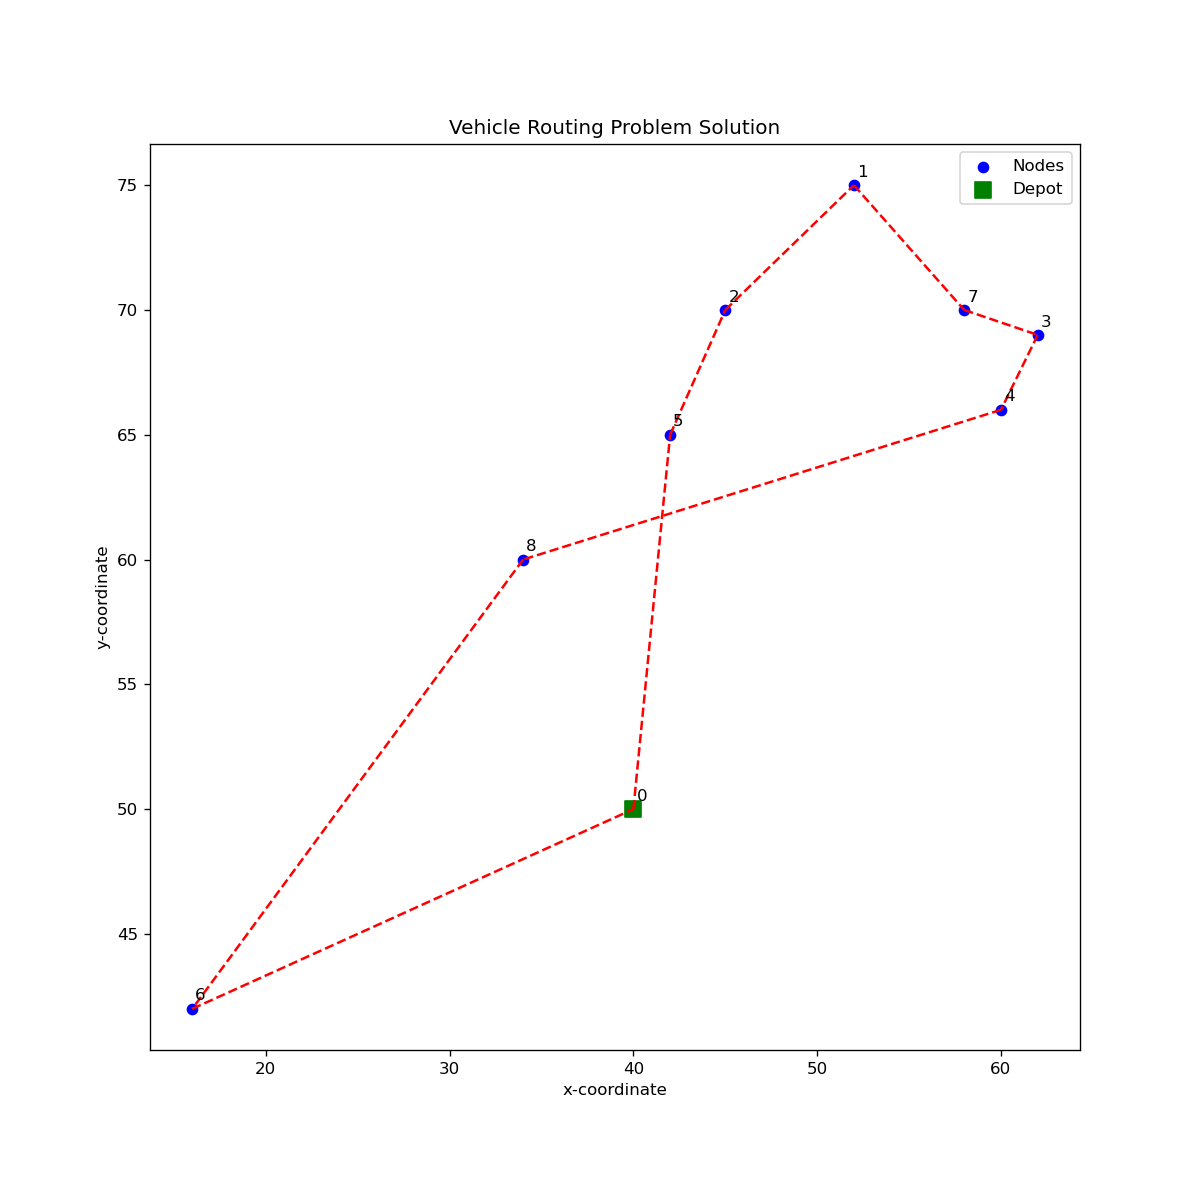
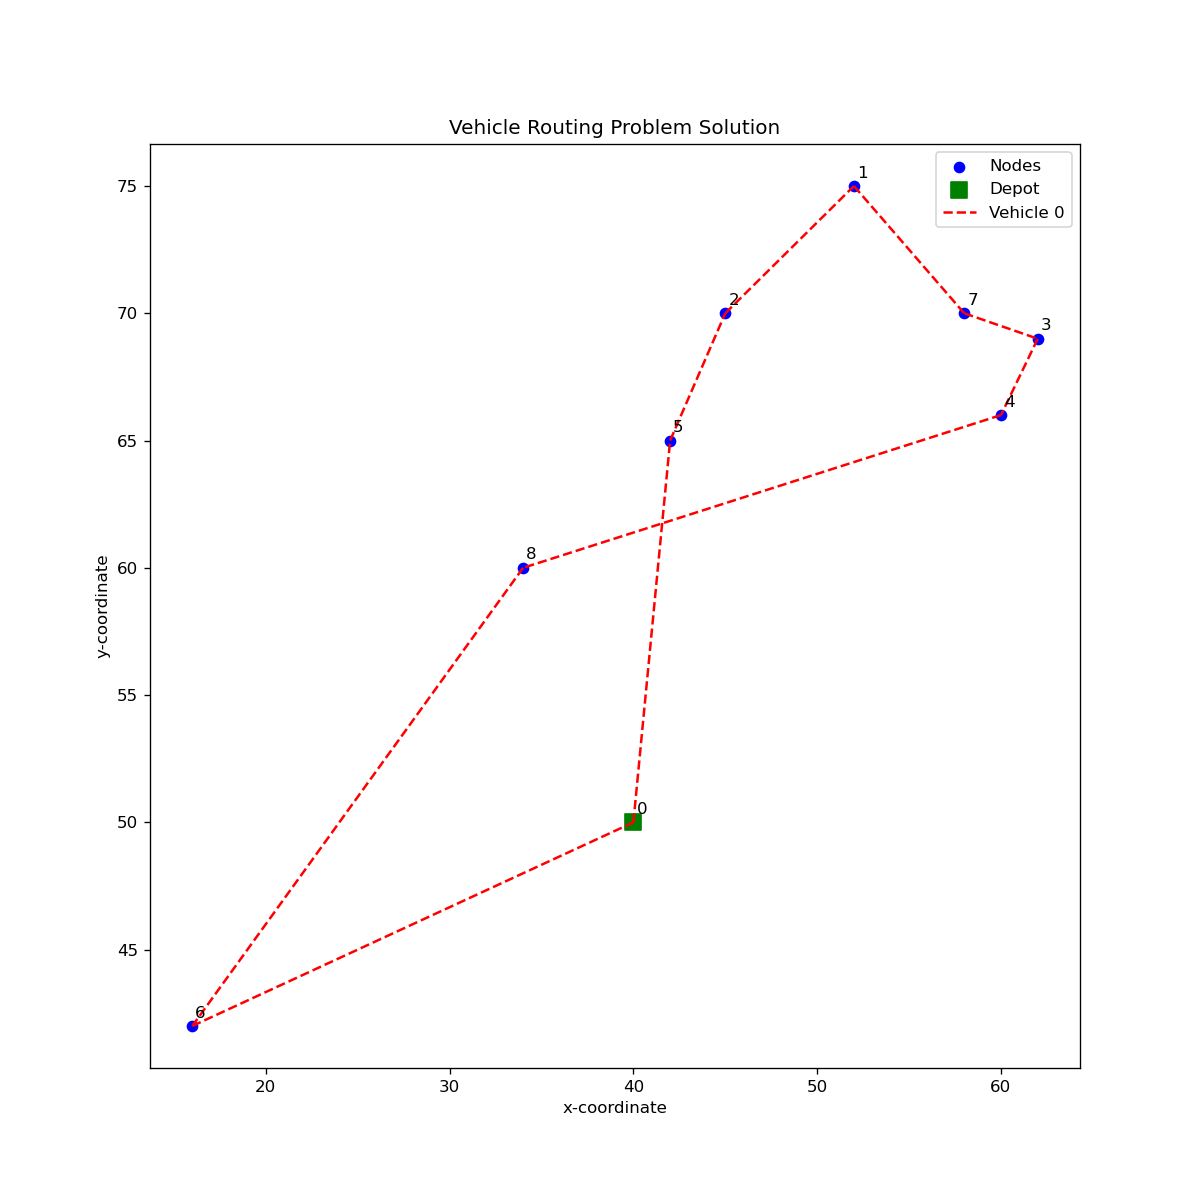
Add labels to the prints

diff --git a/questiona-c_GOED.py b/questiona-c_GOED.py
@@ -163,11 +163,15 @@ if m.status == GRB.OPTIMAL:
     vehicle_loads = {v: 0 for v in V}  # Dictionary to store the load for each vehicle
     vehicle_times = {v: [] for v in V}  # Dictionary to store arrival times for each vehicle
     order_numbers = {v: [] for v in V}
+    load_vehicle = {v: [] for v in V}
+    vehicle_loads_sum = {v: [] for v in V}
 
     for v in V:
         current_node = 0  # Start at the depot
         route = [current_node]  # Initialize route with the depot
-        load = 0  # Initialize vehicle load
+        load_start = 0  # Initialize vehicle load
+        load = [load_start]
+        load_sum = 0
         times = [t[current_node, v].X]  # Start with the depot's time (should be 0)
         order_n = 0 #start routes a depot
         order = [order_n]
@@ -189,18 +193,21 @@ if m.status == GRB.OPTIMAL:
             
             route.append(next_node)
             times.append(t[next_node, v].X)  # Record the arrival time at the next node
-            load += d[next_node]  # Add the demand of the visited node to the load
+            load.append(d[next_node])  # Add the demand of the visited node to the load
+            load_sum += d[next_node]  # Add the demand of the visited node to the load
             current_node = next_node
         
         routes[v] = route  # Save the route for this vehicle
-        vehicle_loads[v] = load  # Save the load for this vehicle
+        vehicle_loads_sum[v] = load_sum  # Save the load for this vehicle
         vehicle_times[v] = times  # Save the arrival times for this vehicle
         order_numbers[v] = order
+        load_vehicle[v] = load
 
     # Print routes, loads, and arrival times
     for v, route in routes.items():
         print(f"Vehicle {v}: {' -> '.join(map(str, route))}")
-        print(f"Vehicle {v} carries a total load of: {vehicle_loads[v]}")
+        print(f"Vehicle {v} carries a total load of: {load_sum}")
+        print(f"Vehicle {v} loads: {', '.join(f'{i:.2f}' for i in load_vehicle[v])}")
         print(f"Vehicle {v} arrival times: {', '.join(f'{time:.2f}' for time in vehicle_times[v])}")
         print(f"Vehicle {v} drive order: {', '.join(f'{order:.0f}' for order in order_numbers[v])}")
 
@@ -229,7 +236,7 @@ for v in V:
     for i in N:
         for j in N:
             if arc_solution[i, j, v] > 0.99:  # Check if route is selected
-                plt.plot([xc[i], xc[j]], [yc[i], yc[j]], linestyle='--', color=colors[v % len(colors)], label=f'Vehicle {v}' if i == j else "")
+                plt.plot([xc[i], xc[j]], [yc[i], yc[j]], linestyle='--', color=colors[v % len(colors)], label=f'Vehicle {v}' if v == j else "")
 
 plt.legend()
 plt.savefig('Figs/questiona-c.png')

diff --git a/questiona-c Tests.py b/questiona-c Tests.py
@@ -39,9 +39,9 @@ for i in nodes:
     for j in nodes:
         s[i][j] = math.sqrt((xc[j] - xc[i])**2 + (yc[j] - yc[i])**2) # Store distance between nodes
         
-V = range(3) #Number of vehicles
+V = range(2) #Number of vehicles
 
-C = 100 #capacity of each vehicle
+C = 130 #capacity of each vehicle
 
 d = VRP[:,3] #Demand at a stop
 
@@ -241,7 +241,7 @@ for v in V:
     for i in N:
         for j in N:
             if arc_solution[i, j, v] > 0.99:  # Check if route is selected
-                plt.plot([xc[i], xc[j]], [yc[i], yc[j]], linestyle='--', color=colors[v % len(colors)], label=f'Vehicle {v}' if i == j else "")
+                plt.plot([xc[i], xc[j]], [yc[i], yc[j]], linestyle='--', color=colors[v % len(colors)], label=f'Vehicle {v}' if i > j else "")
 
 plt.legend()
 plt.savefig('Figs/questiona-c.png')

diff --git a/questionf-g.py b/questionf-g.py
@@ -273,7 +273,7 @@ for v in V:
     for i in N:
         for j in N:
             if arc_solution[i, j, v] > 0.99:  # Check if route is selected
-                plt.plot([xc[i], xc[j]], [yc[i], yc[j]], linestyle='--', color=colors[v % len(colors)], label=f'Vehicle {v}' if i == j else "")
+                plt.plot([xc[i], xc[j]], [yc[i], yc[j]], linestyle='--', color=colors[v % len(colors)], label=f'Vehicle {v}' if v == j else "")
 
 plt.legend()
 plt.savefig('Figs/questiond-fg.png')

diff --git a/questiond-e_GOED.py b/questiond-e_GOED.py
@@ -251,7 +251,7 @@ for v in V:
     for i in N:
         for j in N:
             if arc_solution[i, j, v] > 0.99:  # Check if route is selected
-                plt.plot([xc[i], xc[j]], [yc[i], yc[j]], linestyle='--', color=colors[v % len(colors)], label=f'Vehicle {v}' if i == j else "")
+                plt.plot([xc[i], xc[j]], [yc[i], yc[j]], linestyle='--', color=colors[v % len(colors)], label=f'Vehicle {v}' if v == j else "")
 
 plt.legend()
 plt.savefig('Figs/questiond-e.png')
